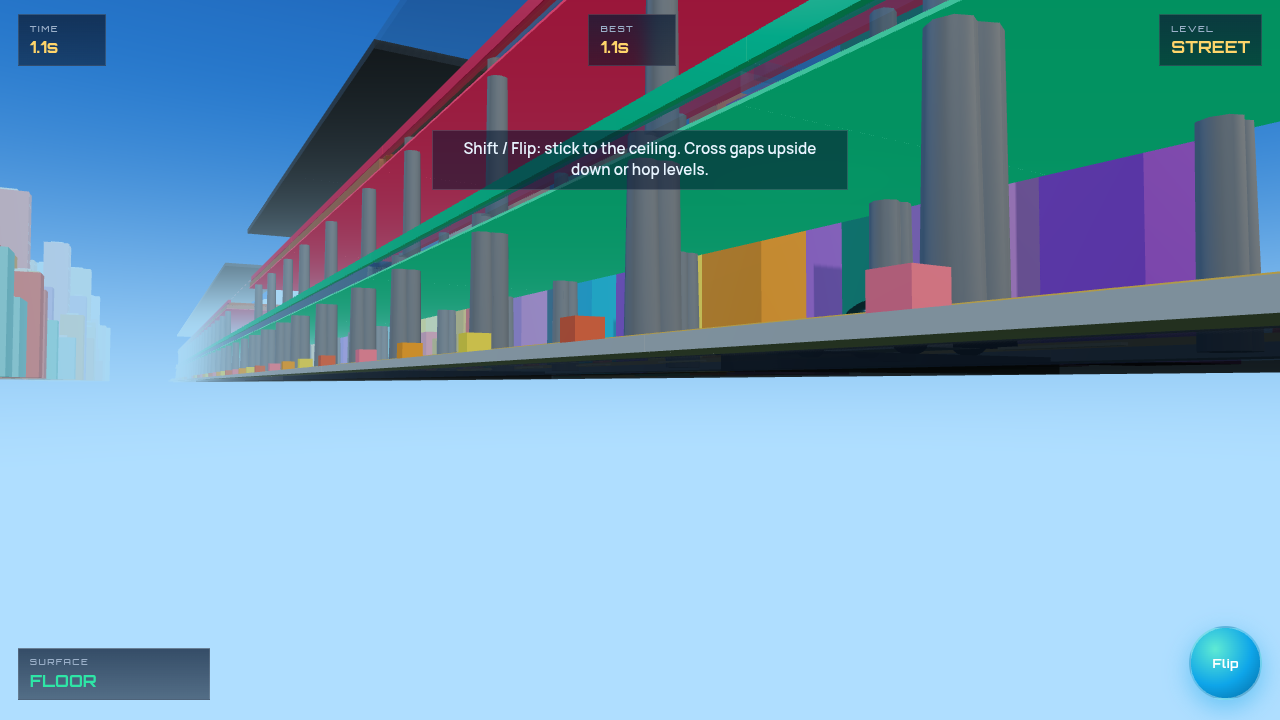
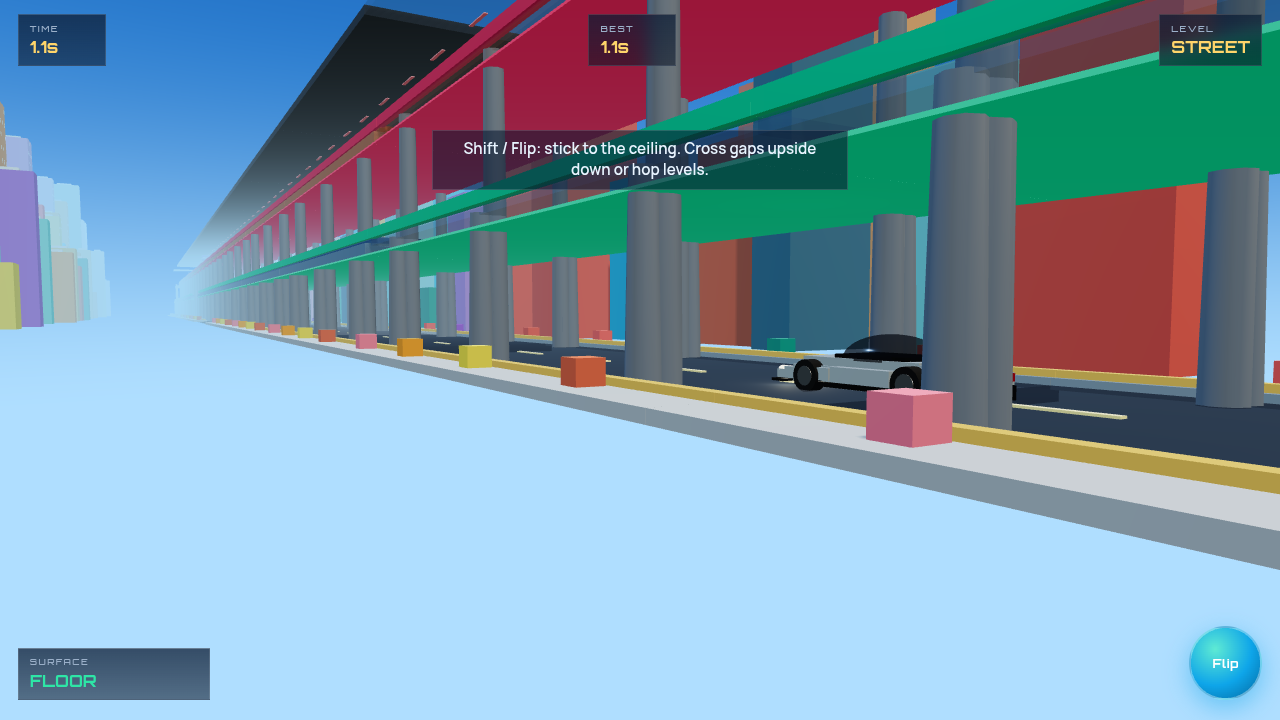
Keep upright chase above the road with the same low/ahead framing
Inverted framing still sits just below the car; upright uses the same
behind/side offsets and far look-at, but stays just above the car so the
camera never drops under the street deck.

diff --git a/js/game.js b/js/game.js
@@ -1761,19 +1761,23 @@ function updateCamera(dt) {
 
   const backX = portrait ? -9.5 : -7.2;
   const sideZ = portrait ? -17.5 : -13.5;
-  // Slightly below the car (the framing users liked while inverted on the ceiling)
-  const desiredY = state.y - (portrait ? 1.4 : 1.1);
+  // Same low chase character as inverted: close behind, look far ahead.
+  // Inverted: sit just below the car. Upright: sit just above it (never under the road).
+  const inv = state.inverted || state.flipping;
+  const desiredY = inv
+    ? state.y - (portrait ? 1.4 : 1.1)
+    : state.y + (portrait ? 1.7 : 1.4);
   const desired = new THREE.Vector3(
     roadster.position.x + backX,
     desiredY,
     roadster.position.z + sideZ
   );
-  const camFollow = state.inverted || state.flipping ? 0.02 : 0.08;
+  const camFollow = inv ? 0.02 : 0.08;
   camPos.lerp(desired, 1 - Math.pow(camFollow, dt));
   camera.position.copy(camPos);
   camTarget.set(
     roadster.position.x + (portrait ? 11 : 10),
-    state.y + 0.15,
+    state.y + 0.2,
     0
   );
   camera.lookAt(camTarget);
